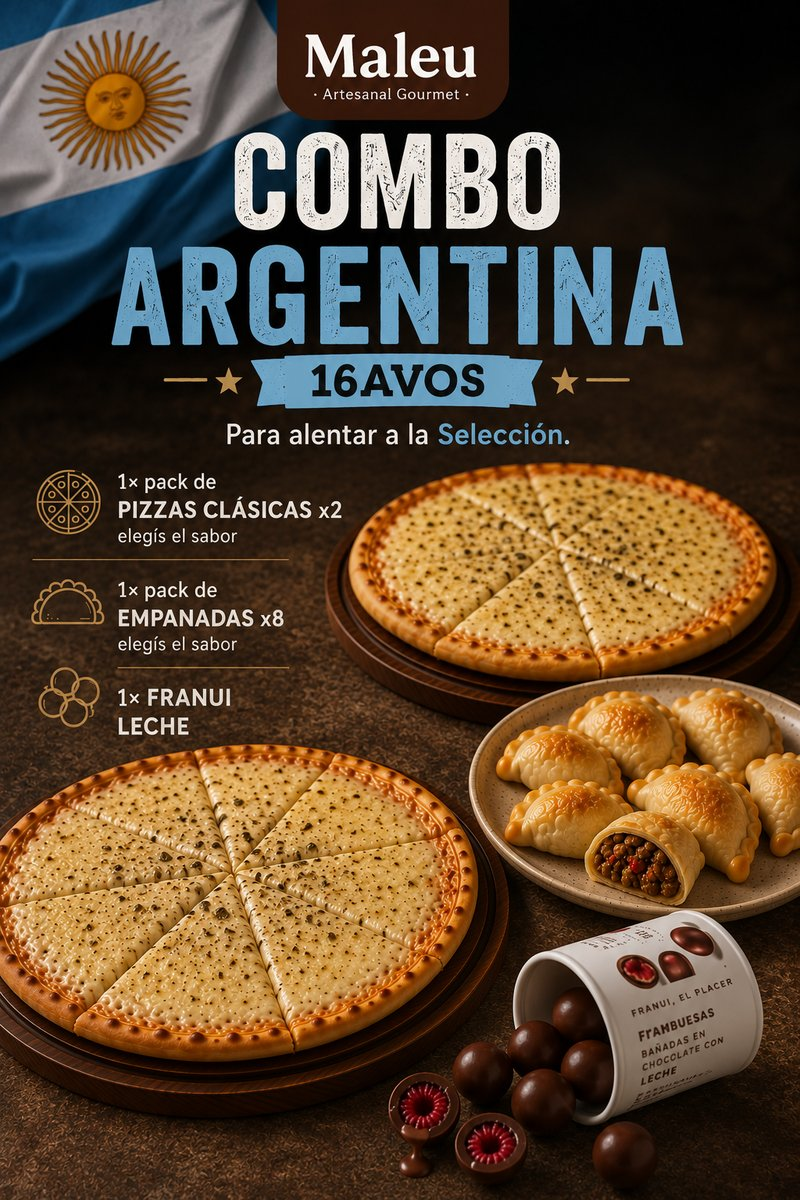
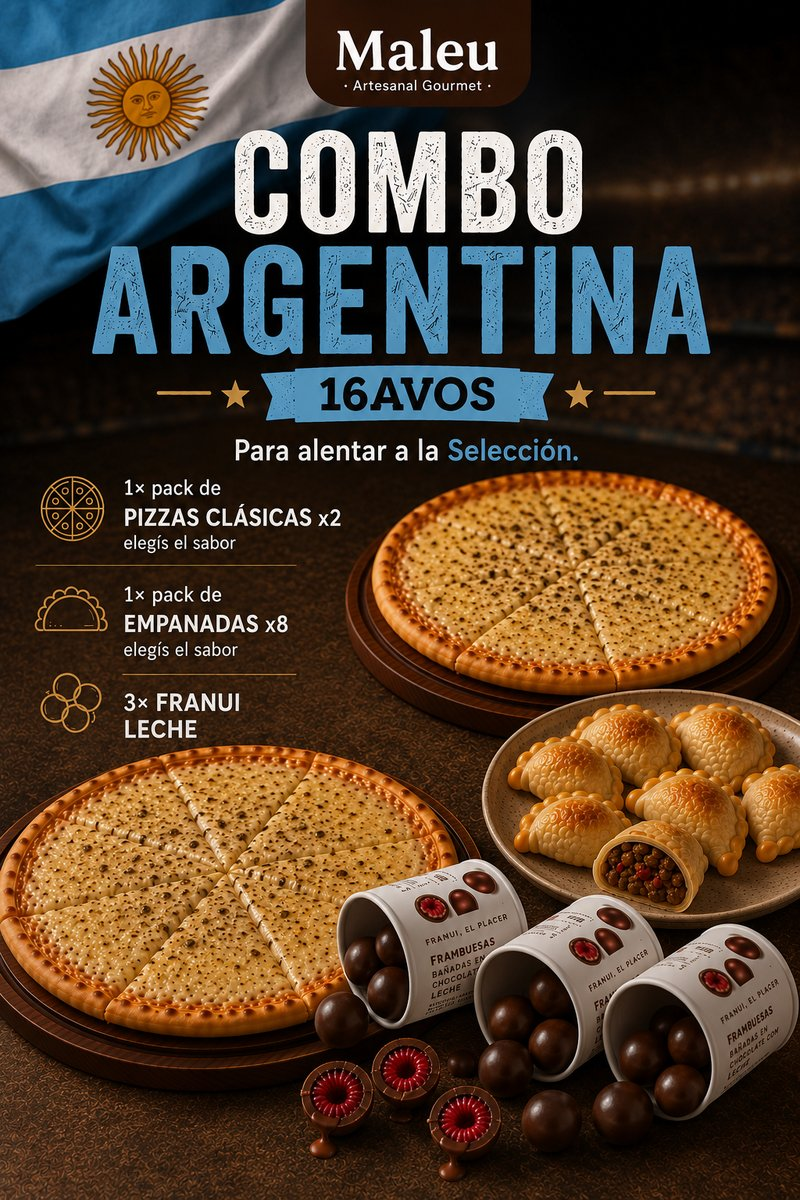
Combos: lista de composicion en permanentes + placa nueva de Argentina
- La lista detallada de composicion ("1x pack de pizzas clasicas x2 ·
  elegis el sabor" / "3x Franui Leche") ahora se muestra TAMBIEN en los
  combos permanentes (fullCard), no solo en los temporales. Helper unico
  _comboCompListHTML usado en ambos layouts (reemplaza el "Incluye:" corto).
- Combo Argentina · 16avos vuelve a fullCard con su placa actualizada
  (combo-arg-16avos.jpg: 3 Franui, sin precio quemado), 239KB.

diff --git a/app.js b/app.js
@@ -103,7 +103,7 @@ const COMBOS = [
     nombre: 'Combo Argentina · 16avos',
     desc: 'Para alentar a la Selección.',
     precio: 54900,
-    img: COMBO_PLACEHOLDER_IMG,   // placa combo-arg-16avos.jpg quedó desactualizada (3 Franui + precio nuevo) → texto hasta tener arte nuevo
+    img: 'combo-arg-16avos.jpg', fullCard: true,   // placa actualizada (3 Franui, $54.900)
     emoji: '🇦🇷',
     flag: '🇦🇷',
     categoria: '🇦🇷 Mundial 2026',
@@ -1476,16 +1476,21 @@ function applyZone() {
      composición). Se muestra entera y NO se repite el texto en HTML; debajo
      solo el precio (tachado dinámico + final) y el botón.
    - sin fullCard: layout de texto clásico (placeholder / combos sin arte). */
-/* Composición condensada de un combo en una línea corta (para la card completa,
-   donde la placa diseñada se lee difícil). Ej: "1 tarta · 1 wrap · 1 pack de
-   sorrentinos · Franui". */
-function _comboCompSummary(c) {
+/* Lista de composición de un combo (los <li>): cuántas unidades de cada cosa +
+   "elegís el/los sabor(es)" en los slots con opción, o el producto en los fijos.
+   Se usa igual en la card permanente (fullCard) y en la temporal (texto). */
+function _comboCompListHTML(c) {
   return (c.slots || []).map(slot => {
-    const pick = slot.pick || 1;
     const opts = slotOptions(slot);
-    let noun = slot.unidad || ((opts.length <= 1 && opts[0]) ? opts[0].nombre : slot.label.toLowerCase());
-    return (pick > 1 ? pick + '× ' : '') + noun;
-  }).join(' · ');
+    const pick = slot.pick || 1;
+    const noun = slot.unidad || slot.label.toLowerCase();
+    if (opts.length <= 1) {
+      const p = opts[0];
+      return p ? '<li class="fixed"><strong>' + pick + '×</strong> ' + p.nombre + '</li>' : '';
+    }
+    return '<li><strong>' + pick + '×</strong> ' + noun +
+      ' <span class="combo-choose">· elegís ' + (pick > 1 ? 'los sabores' : 'el sabor') + '</span></li>';
+  }).join('');
 }
 
 function _comboCardHTML(c) {
@@ -1501,24 +1506,13 @@ function _comboCardHTML(c) {
     return '<article class="product-card combo-card combo-card-full" data-id="' + c.id + '">' +
       '<img class="combo-full-img" src="img/' + c.img + '" alt="' + c.nombre + '" loading="lazy">' +
       '<div class="combo-full-foot">' +
-        '<p class="combo-full-comp"><strong>Incluye:</strong> ' + _comboCompSummary(c) + '</p>' +
+        '<ul class="combo-includes">' + _comboCompListHTML(c) + '</ul>' +
         '<span class="stock-indicator" id="stock-' + c.id + '"></span>' +
         '<div class="product-footer">' + priceHtml + btn + '</div>' +
       '</div>' +
     '</article>';
   }
 
-  const compList = (c.slots || []).map(slot => {
-    const opts = slotOptions(slot);
-    const pick = slot.pick || 1;
-    const noun = slot.unidad || slot.label.toLowerCase();
-    if (opts.length <= 1) {
-      const p = opts[0];
-      return p ? '<li class="fixed"><strong>' + pick + '×</strong> ' + p.nombre + '</li>' : '';
-    }
-    return '<li><strong>' + pick + '×</strong> ' + noun +
-      ' <span class="combo-choose">· elegís ' + (pick > 1 ? 'los sabores' : 'el sabor') + '</span></li>';
-  }).join('');
   return '<article class="product-card combo-card" data-id="' + c.id + '">' +
     '<div class="product-thumb">' +
       '<span class="combo-flag">' + (c.flag || '🎁') + '</span>' +
@@ -1528,7 +1522,7 @@ function _comboCardHTML(c) {
       (c.top ? '<span class="product-top-badge">⭐ Lo más pedido</span>' : '') +
       '<h3 class="product-name">' + c.nombre + '</h3>' +
       '<p class="product-desc">' + c.desc + '</p>' +
-      '<ul class="combo-includes">' + compList + '</ul>' +
+      '<ul class="combo-includes">' + _comboCompListHTML(c) + '</ul>' +
       (c.chips ? '<div class="product-chips">' + c.chips.map(x => '<span class="chip">' + x + '</span>').join('') + '</div>' : '') +
       '<span class="stock-indicator" id="stock-' + c.id + '"></span>' +
       '<div class="product-footer">' + priceHtml + btn + '</div>' +